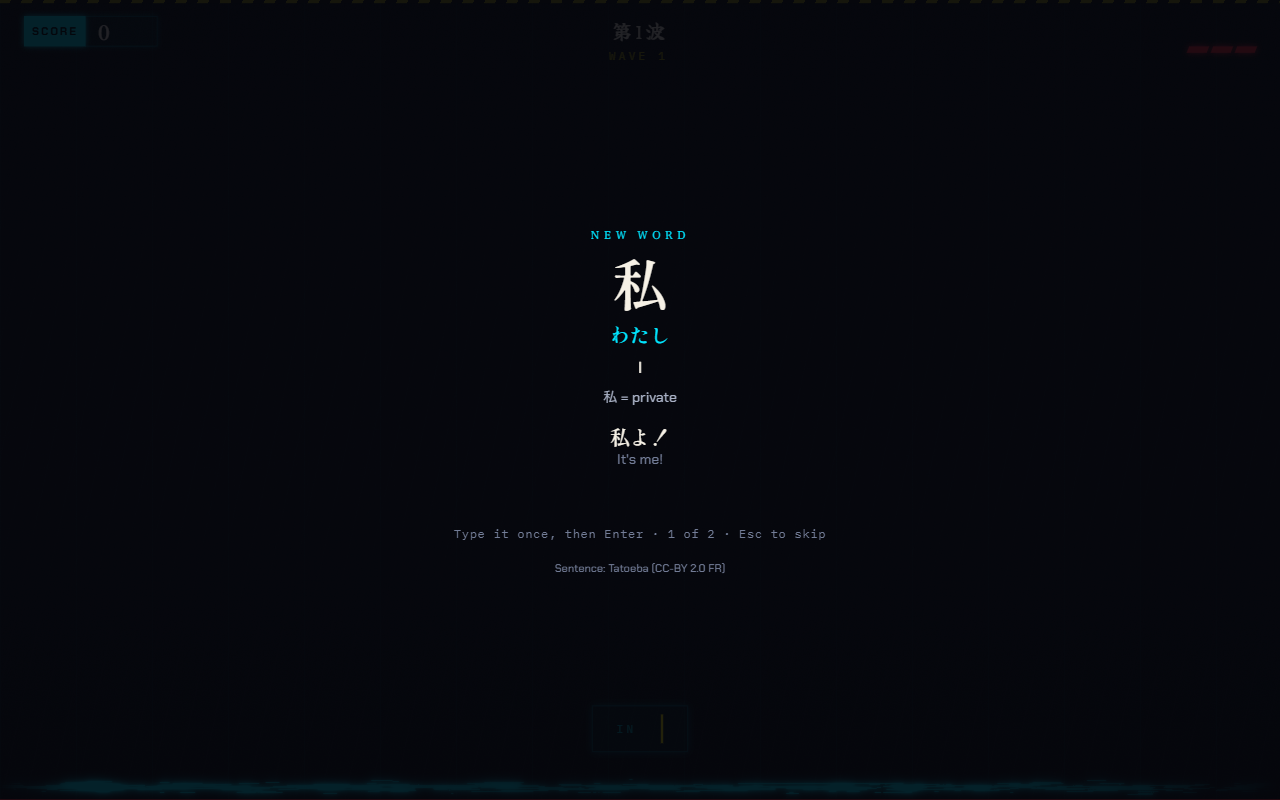
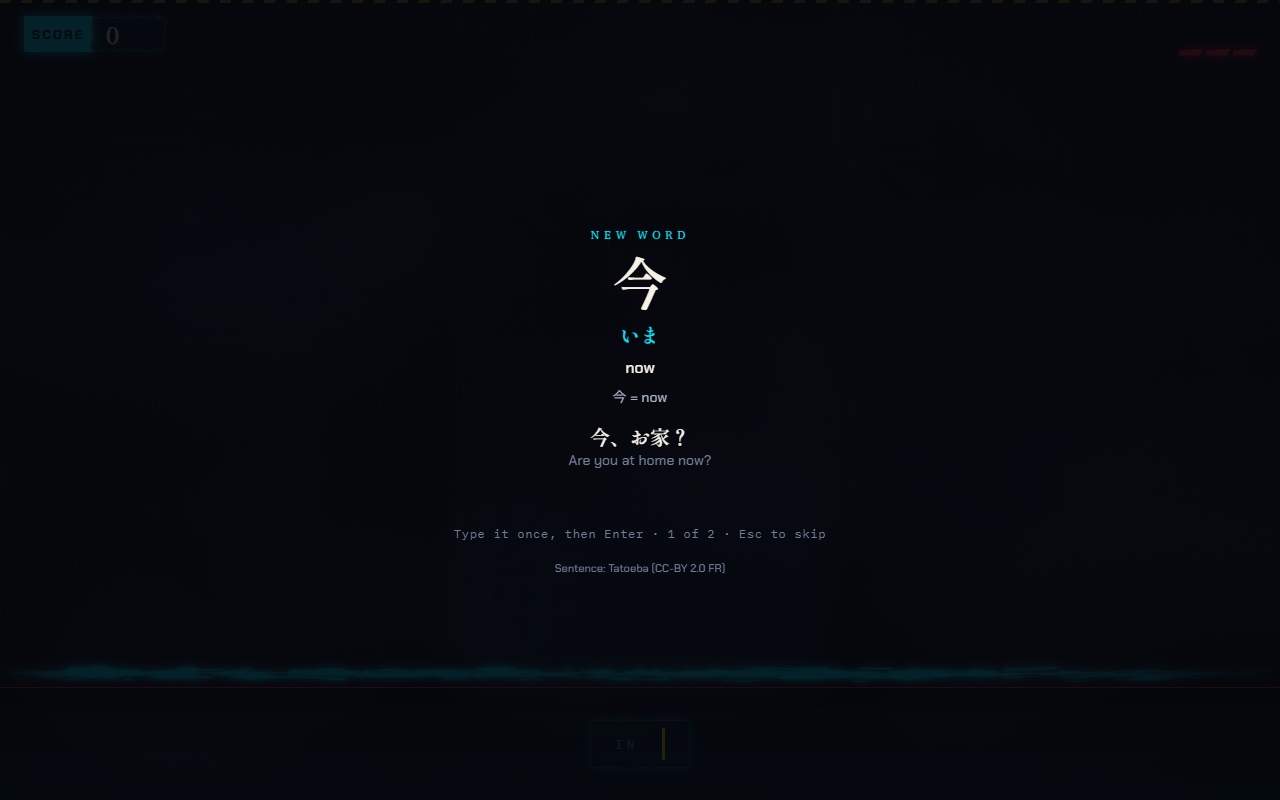
docs: second-pass QA matrix, refreshed screenshots, spec marked implemented

diff --git a/docs/qa/2026-10-07-second-pass-checklist.md b/docs/qa/2026-10-07-second-pass-checklist.md
@@ -1,0 +1,135 @@
+# Visual identity, second pass — QA checklist
+
+Task 15 of `docs/superpowers/plans/2026-10-07-visual-identity-second-pass.md`.
+Verifies spec `docs/superpowers/specs/2026-10-07-visual-identity-second-pass-design.md`
+§6 (effects contract), §7 (legibility), §9 (testing) against the running app.
+
+Browser: `kanjifall-e2e` (port 5183) only, via Playwright MCP — never the dev
+config, which writes to the real study database.
+
+**How this was walked (2026-10-07).** Every measurement ran against
+`kanjifall-e2e` with its isolated `data/e2e.db`, at 1280×800 unless a row says
+otherwise, with `?seed=42` (and `&mode=reading&pool=n5` where the game was
+started from the URL). Playwright's own Chromium is not installed, so the
+matrix was driven by temporary Playwright scripts on system Edge (headless),
+and the late-wave frame timing ran in the Claude browser pane (a real,
+GPU-composited Chromium). Effects levels were set through the Settings screen
+for the matrix walk (title → Settings → level → Back, so every level also
+re-entered the title through a transition); the legibility, brightness and
+README runs set `kotoba-settings-v1` in `localStorage` before load. Numbers
+come from the live objects, not from reading the code: computed styles and
+`getAnimations()` for the DOM, and for Pixi a page-side wrapper around
+`PixiStage`/`WordSprite` prototype methods (imported from `/src/render/…`,
+the same module instances the app uses) that recorded per-frame alpha, blur,
+filter lists, fx and particle counts. Nothing was added to the repository for
+this; the probes lived only in the page.
+
+**On the evidence referenced below.** As with the first pass, the `*.png`
+names are identifiers of screenshots examined at the time, kept in a scratch
+directory outside the repository; they are not paths you can open. The
+verdicts and the numbers recorded here are the durable record.
+
+## 1. §6 effects contract — one row per table cell
+
+| Element | Level | Expected | Observed | Result |
+|---|---|---|---|---|
+| Atmosphere washes, shaft, vignette, sumi | full | On, drifting | `--atmosphere-alpha` 1 and `.atmosphere-depth` opacity 1 on title, chooser and game; `atmosphere-sway` running on the system wash (46 s) and the cool wash (58 s), the deep wash static as specified. On Settings the scene is `calm` and the depth layer is at opacity 0. | PASS — `title-full.png`, `beat-full.png` |
+| Atmosphere washes, shaft, vignette, sumi | reduced | Half opacity, static | `--atmosphere-alpha` 0.5, depth opacity 0.5, `data-drift="0"`, `getAnimations()` empty on all three washes. | PASS — `title-reduced.png` |
+| Atmosphere washes, shaft, vignette, sumi | off | Absent | `--atmosphere-alpha` 0, depth opacity 0; only the ground gradient paints. | PASS — `title-off.png` |
+| Ghost glyphs (game) | full / reduced / off | Drift / static half / absent | 言 葉 降 at 4.5% ink, blur 2.4px. Full: `atmosphere-drift` (70 s) running in the game scene. Reduced: no animation, inside the 0.5 depth layer. Off: depth opacity 0. | PASS — `beat-full.png`, `miss-reduced.png`, `miss-off.png` |
+| Ghost words falling (title, chooser) | full / reduced / off | Fall / half opacity / absent | Six spans (雨 勉強 光 図書館 女 犬), never the deck. Full: colour alpha 0.16 on the title and 0.08 on the chooser, `title-fall` running (14–19 s). Reduced: 0.08 and 0.04, still falling. Off: not rendered (0 spans). | PASS — `title-*.png`, `setup-*.png` (motion at reduced: finding F5) |
+| Brush-edged chrome | full / reduced / off | Present at every level; glow only at full | At all three levels the `::before` of Stats, Settings, Back, every picker, the HUD value boxes, the buffer and the title sign carries the brush SVG mask at `100% 100%` over a token colour; primaries carry the torn `clip-path`. Glow: `.hud-glow` at full only (value box-shadow 6px, buffer 8px, tab and live-pip drop-shadows); none at reduced or off. | PASS (stroke weight on short boxes: finding F3) |
+| Spawn bleed + flicker | full / reduced / off | Blur+flicker / alpha only / appear | Full: `BlurFilter` 8px → 0 with alpha eased 0 → 1, filter removed at 258 ms; light × 0.3 for the second snap step (alpha 0.56 at 88 ms, 0.17 at 92 ms, 0.92 at 183 ms). Reduced: params `{ blurPx: 0, flicker: 0 }`, no filter, a plain alpha ramp. Off: `beginSpawn` never called; the first frame of the sprite is alpha 1 with no filter. | PASS |
+| Lock reticle + underline | full / reduced / off | Snap+flicker / snap / snap — present at every level | Brackets and underline visible from the first frame at every level. Full: alpha 0.9 (0–90 ms) → 0.2 (90–180 ms) → 1, glow filter on. Reduced: alpha 1 throughout, glow on at 0.5. Off: alpha 1, no glow filter (flat). | PASS — `locked-*.png` |
+| Slash / splatter / flare | full / reduced / off | All / slash, half, half / none | Full: slash (−16°, 117 × 5.4px at 45px words) scaleX 0 → 1 by 120 ms, holds, fades by 390 ms; 10 droplets (combo 1); flare alpha 1 → 0 while scaling up over 420 ms. Reduced: slash at alpha 1; 5 droplets; flare at half (0.43 at 63 ms against 0.85 at full). Off: no fx, 0 droplets; the word simply vanishes. | PASS — `kill-*.png` (slash weight: finding F2) |
+| Approach tint / swell | full / reduced / off | Both / tint only / none | Full: at y 0.85 the red-halo copy is at 0.50 over the base at 1 and the swell at 0.25; at y 0.93 hot 1, base 0.69, swell 0.65 and wider. Reduced: the same two-copy crossfade, no swell sprite. Off: no hot copy is ever built, no swell. | PASS — `approach-*.png` |
+| Miss splash / impact glow | full / reduced / off | Both / half, half / none | Full: 7 droplets, impact glow (danger tint) 1 → 0 over 420 ms (0.76 at 100 ms). Reduced: 4 droplets, impact 0.38 at 100 ms. Off: 0 droplets, no impact sprite. | PASS — `miss-*.png` |
+| Deadline flicker / shake (2px) | full / reduced / off | Both / none / none | Full: deadline alpha 0.45 (7–90 ms) → 1 (94–186 ms) → 0.45 (186–274 ms) → 1; stage jitter within ±2px (max 1.997) for 150 ms, then exactly (0, 0). Reduced and off: deadline at 1 and stage at (0, 0) on every frame. | PASS |
+| Miss reveal text, pip change | full / reduced / off | Present at every level | The reveal (`一 いち — one` on its vermillion underline) is present for 1600 ms at every level, fading from 15% of its life; pips read 2 live / 1 spent (spent at 16% danger) at every level. | PASS — `miss-off.png` |
+| Screen transition | full / reduced / off | Bleed+flicker / crossfade / 120ms crossfade — never a cut | Full: incoming `screen-bleed` 360 ms (opacity 0 → 1, blur 12 → 0) then `screen-settle` brightness 2 / 0.5 / 1 at 380 / 467 / 559 ms; outgoing `screen-drain` 360 ms, `inert` and `aria-hidden`; focus inside the incoming layer. Reduced: 360 ms crossfade, blur 0, no settle. Off: 120 ms crossfade, blur 0. Measured on Settings → title, title → chooser and chooser → game; the outgoing layer was present for every change, so none was a cut. The other directions go through the same `ScreenTransition` in `App.tsx`. | PASS |
+| Wave header | full / reduced / off | Centre beat + slot / centre fade + slot / slot only | Full: 第1波 `wave-bleed` 260 ms, `wave-drain` from 940 ms; the HUD label is `hud-wave-hidden` for the whole beat and bleeds in from ~1.33 s. Reduced: `data-beat="fade"`, `wave-fade-in` / `wave-fade-out`, no blur. Off: no `wave-start` element; the HUD label (class `hud-wave`, no bleed class) is at opacity 1 within ~115 ms of the ceremony ending. | PASS — `beat-full.png`, `beat-reduced.png` |
+| Wave light sweep | full / reduced / off | On / off / off | Full: `wave-sweep` 700 ms, displayed. Reduced: `display: none`. Off: not rendered. | PASS |
+| Title sign flicker / stagger | full / reduced / off | Both / bleed, no stagger / appear | Full: `sign-on` 520 ms, delay 540 ms (`--transition-ms` + two snaps), brightness 0.1 → 2 → 0.4 → 1 with 129 / 133 ms steps, starting after the transition's settle had ended; tagline, hint and the three controls at 1060 / 1140 / 1220 / 1300 / 1380 ms (80 ms stagger). Reduced: sign `screen-bleed` 260 ms (opacity only), every copy delay 0. Off: no animation on the sign or the copy. | PASS — `title-*.png` |
+| Existing: bloom, CRT, particle counts | each × crt on/off | As the juice pass | Toggled live at each level. Full: stage filters `[AdvancedBloom]` → `[AdvancedBloom, CRT]` with crt on → back; floor `GlowFilter`; grain 1. Reduced: `[]` → `[CRT]`; floor glow at 0.5; grain 0.5. Off: `[]` → `[CRT]`; floor flat (no filter); grain 0. Kill burst 10 / 5 / 0 and splash 7 / 4 / 0 droplets; shake 2px at full only. | PASS — `crt-*.png` |
+
+## 2. §7 legibility
+
+| Check | Expected | Observed | Result |
+|---|---|---|---|
+| 議 職 験 at 52px, atmosphere on, each level | Stroke detail unambiguous; words brightest on screen | QA-only list (会議 職業 試験 看護婦 年齢) in the e2e DB, each word captured mid-fall (y ≈ 0.25) over the atmosphere and cropped at 4× nearest-neighbour. At 1280×920 the words are 52px; at 1280×800 they are 45px (finding F1), so both were checked, at full, reduced and off. 議: the 言 bars and the 我 hooks separate. 職: the 耳 rungs and 戈 separate. 験: the four dots of 馬 separate; at full and 45px the chromatic split crowds them slightly but they stay countable. Ink (Y ≈ 0.88) is the brightest thing on screen; the brightest atmosphere pixel is Y 0.022. | PASS (eyeballed from the crops) — `legib-{full,reduced,off}-{800,920}-{議,職,験}.png` |
+| Depth-layer luminance over the ground | ≤ ~8% at the brightest point (sample the shaft's base) | Metric: WCAG relative luminance Y (the luminance the first pass's contrast checks use), per pixel, ΔY = Y(level) − Y(off), on an atmosphere-only frame (screen content hidden) at 1280×800, with the washes at both ends of their drift. Shaft base (640, 684): +0.74 points of luminance (Y 0.0024 → 0.0098). Brightest wash (cool, 1100, 450): +0.55. Brightest point anywhere: +1.9 at (538, 639), where the 降 ghost glyph crosses the shaft. Reduced: +0.69 at most. For reference, the same points in CIE lightness: shaft base ΔL* 6.6, maximum ΔL* 13.6. | PASS (≤ 8% luminance with a wide margin; the perceptual figure is noted in F6) — `atmos-full-start.png`, `atmos-full-end.png` |
+| Any flicker, each level | ≤ 3 steps, ≤ 300ms each, none at reduced/off | Every flicker in the build, measured at full: screen settle 2 / 0.5 / 1 (≈ 90 ms steps); title sign 0.1 / 2 / 0.4 / 1 (130 ms); spawn light 1 / 0.3 / 1 (90 ms); lock 0.9 / 0.2 / 1 (90 ms); deadline 0.45 / 1 / 0.45 / 1 (≈ 90 ms). Each is one event per trigger and never repeats. At reduced and off: no `screen-settle`, no `sign-on`, spawn and lock alpha never dip, the deadline never leaves 1. | PASS |
+
+## 3. prefers-reduced-motion
+
+| Check | Expected | Observed | Result |
+|---|---|---|---|
+| First run with the media query on | effects defaults to reduced: no blur, no flicker, no shake | Edge with `reducedMotion: 'reduce'` and empty storage: `matchMedia` true, `kotoba-settings-v1` absent (the default is not persisted), `getSettings().effects` is `reduced`, and Settings shows `reduced` selected. Title `data-flicker="0"`, the sign bleeds by opacity only; transition blur 0px and no settle; spawn params `{ blurPx: 0, flicker: 0 }` with no `BlurFilter`; `shakePx` 0; washes static. | PASS — `rm-title.png`. This closes the first pass's stated gap (it could not emulate the media query). |
+
+## 4. Late-wave frame time
+
+| Check | Expected | Observed | Result |
+|---|---|---|---|
+| Wave 10+, effects full, 1280×800 | No sustained drop below 55fps; ≤ 4 concurrent spawn blurs | Played through at the real constants (no tuning edit): an in-page autoplayer escaped ceremonies and typed readings, reaching wave 10 at 222 s with all lives. 30 s of `playing` frames over waves 10–11 in the browser pane (GPU-composited, emulated 1280×800, 144 Hz display): 4320 frames, every one-second window at 144fps, slowest frame 9.5 ms, p99 8.5 ms, 0 frames over 18.2 ms. Load in the window: 93 kills including five bursts of 3–4 simultaneous kills (up to 9 live fx and 136 droplets), 4 lazy hot-copy builds — none produced a slow frame. Natural play never had more than one bleed at a time (spawn interval ≥ 1.2 s against a 260 ms bleed), so the cap was exercised directly: 8 new words in one `sync` → 4 with a `BlurFilter`, 4 alpha-only, the `sync` itself 0.4 ms. | PASS |
+
+## 5. Fixes landed during this pass
+
+None. No cell in §1–§4 failed, so no `fix:` commit was needed. The judgement
+items and the deviations found along the way are recorded in §6 with
+recommendations; each needs a design decision rather than a correction.
+
+## 6. Findings not fixed
+
+| # | Finding | Recommendation |
+|---|---|---|
+| F1 | At the 1280×800 reference window words are **45px**, not the 52px (+30%) the decisions log and §3.3 name: `playScale` is keyed on the playfield, which is the window minus the machine band (688px at 800 tall). 52px needs a ~920px-tall window. | Decide what "52 at 800 tall" meant. If the +30% intent stands, key `playScale` on the game-screen height (or raise `WORD_HEIGHT_RATIO` to ≈ 0.0756), then recheck Task 3's buffer-fits-band arithmetic. Otherwise amend §3.3. |
+| F2 | The kill slash reads as a hairline cut, not a brush slash. The sprite is `max(4, 0.12 × wordPx)` = 5.4px tall at 45px, and `brushStrokeDataUri` keeps the floor's proportions, a painted bar 5/26 of the canvas height, so about 1px of ink plus raggedness shows (`judge-slash-crop.png`). The flare and the droplets carry the kill. | Tuning: about 0.25 × wordPx for the slash height, or a slash texture whose painted bar fills more of its canvas. |
+| F3 | `--brush-frame-wide` is a 200×40 (5:1) mask, but most of its users are 2–3:1 (Back 82×36, Stats 84×36, Settings 104×36, HUD values ~72×36). Stretched to `100% 100%`, the side strokes render 1.7–2.7× thinner than the top and bottom (the ratio of the two scale factors), and the top and bottom noise is squeezed sideways. The chooser's Import… button is also stretched to 102×55 by its row's default `align-items: stretch`. Visible at 4×, subtle at 1×. The narrow pickers the ledger asked about are fine: 136×36 on the 260×70 tall mask (3.8 vs 3.7). | A mask at ~2.5:1 (e.g. 100×40) for buttons and HUD values, and `align-self: center` on the Import button. |
+| F4 | The title sign centres at **31%** of the height, not the spec's 37%: the sign and its copy are centred as a group in the stage above the 30% band. | Keep 31% and amend §5.1. Moving the sign down 6% (29px at 480 tall) would shrink the hint-to-floor gap on short windows from 32px to ~3px (800×480), which is already the known tight spot. |
+| F5 | At reduced, the default under `prefers-reduced-motion`, the title and chooser ghost words keep falling (§6 asks only for half opacity). The game's ghost glyphs, by contrast, are static at reduced. | Consider "static, half" for the falling ghosts at reduced, so a reduced-motion first run has no continuous motion on its first two screens. This changes the §6 row. |
+| F6 | The brightest depth-layer point is the 降 ghost glyph where it crosses the light shaft (ΔY +1.9 points of luminance, ΔL* 13.6, centre-left of the playfield). It passes the luminance ceiling and is blurred, faint and 3× word size, but it is the one place where a letterform is the brightest thing in the depth layer. | Optional: move 降 off the shaft (e.g. `left: 20%`) or let the shaft fade out below it. |
+| F7 | Pre-existing, not from this pass: centre-lane words spawn under the HUD wave header and overlap 第N波 for about the first second of their fall (visible in `legib-*-920.png`). The +30% words make it a little larger than in the first pass. | Low; a spawn y below the header, or a header that ducks, if it ever matters. |
+| F8 | Pre-existing (juice pass, 2026-08-08), outside this pass's contract: two renderer paths still branch on `effects` directly: the `×N!` combo flash in `PixiStage.playKill` and the particle counts via `burstCount` in `Particles`. | Fold them into `visualParams` the next time either is touched. |
+
+## 7. Judgements the ledger asked for
+
+- **Ghost density on the title.** Six reads calm at 1280×800: the ghosts sit in
+  the outer lanes at 16% and never reach the sign or the controls. Keep six.
+- **The sign's vertical placement.** See F4: keep at ~31%.
+- **Slash thickness at small word sizes.** See F2: acceptable but weak.
+  Recommend tuning.
+- **Brush masks on off-aspect boxes.** Narrow pickers are fine; the short
+  buttons and HUD values are the ones that distort (F3).
+- **The kill's three stacked effects at a high kill rate.** A 4-word burst
+  frozen at +120 ms (`judge-burst.png`) reads as four distinct
+  flare + slash + splatter clusters, not as noise. Keep; the droplet count
+  stays the knob.
+- **Known cosmetic items, confirmed cosmetic.** 図書館 in the 94% lane clips at
+  the right edge on narrower windows (clearly at 960 wide, ~1px at 1280).
+  The title hint sits 10px above the floor box at 534×417 (32px at 800×480,
+  74px at 960×600). The HUD wave label starts its bleed 12–13ms after the
+  header finishes draining at full and reduced (measured; the ledger
+  estimated ~40ms). None of them hides or misstates state.
+
+## 8. `npm run check` / e2e
+
+```
+$ npm run check
+tsc -b && oxlint && vitest run --passWithNoTests
+ Test Files  75 passed (75)
+      Tests  524 passed (524)
+
+$ npx playwright test -c playwright.edge.tmp.config.ts   # repo config + use.channel 'msedge'; temporary, deleted
+Running 3 tests using 2 workers
+  ok 2 e2e\game.spec.ts:106:1 › reading mode: intro → dismiss → type reading → kill scores (17.2s)
+  ok 1 e2e\import.spec.ts:101:1 › import a list and play it: ceremony, kill, persistence (17.2s)
+  ok 3 e2e\game.spec.ts:158:1 › recall mode: gloss prompt still killed by typing the reading (2.3s)
+  3 passed (21.7s)
+```
+
+`npm run e2e` as written needs Playwright's Chromium, which is not installed
+on this machine (`npx playwright install chromium` is a download). The same
+suite was run against system Edge through a temporary config that spreads
+`playwright.config.ts` and sets `use.channel = 'msedge'`. No `concurrently`,
+`tsx` or `vite` process pointing into the worktree was left running before
+or after the run.

diff --git a/docs/superpowers/specs/2026-10-07-visual-identity-second-pass-design.md b/docs/superpowers/specs/2026-10-07-visual-identity-second-pass-design.md
@@ -1,7 +1,7 @@
 # Visual Identity, Second Pass — Design Spec
 
 **Date:** 2026-10-07
-**Status:** Approved pending final user review
+**Status:** Implemented — see docs/superpowers/plans/2026-10-07-visual-identity-second-pass.md
 **Scope:** Atmosphere and ink material on the playfield, a motion language for every moment of play, screen transitions, a wave-start beat, and a title showpiece. Presentation only. No engine, data, or server changes.
 **Builds on:** `2026-08-15-visual-identity-design.md`. This spec inherits its token layer (§3), its effects/settings contract (§7), and its legibility rules (§9) without restating them. Where it amends that spec it says so explicitly. It also inherits the juice pass's load-bearing boundary: the Pixi layer, the React HUD, and audio are passive consumers of engine events.
 **Comps:** the approved mockups live in `.superpowers/brainstorm/1820-1791402381/content/` (gitignored, local to the machine the brainstorm ran on): `backdrop.html`, `chrome.html`, `scale.html`, `motion-v2.html`, `transitions.html`, `title-v2.html`. The spec is the source of truth; the comps show intent.
@@ -119,7 +119,7 @@ The band is the machine: the buffer and, on the title and chooser, the controls 
 
 **Ink is the body, neon is the light.** Forms move like ink: they bleed in from blur, splatter, drip, drain. Light moves like neon: it flickers on, flares, pulses once. Every moment below is built from those two vocabularies and nothing else. A new moment added later must be describable in them.
 
-Two constraints hold everywhere. Nothing decorative may flash more than three times per event or last longer than 300ms per flicker, and every flicker is gone at `effects: 'reduced'`, which `prefers-reduced-motion` already selects by default. Anything that conveys state keeps its first-spec behaviour at every level.
+Two constraints hold everywhere. Nothing decorative may flash more than three times per event or last longer than 300ms per step, and every flicker is gone at `effects: 'reduced'`, which `prefers-reduced-motion` already selects by default. Anything that conveys state keeps its first-spec behaviour at every level.
 
 ### 4.2 Motion tokens
 

diff --git a/README.md b/README.md
@@ -33,6 +33,10 @@ an example sentence, and you type it once before it ever falls:
   it with the same ceremony + review treatment.
 - **Local-first analytics** — everything lives in one SQLite file on your
   machine; nothing leaves it.
+- **Brushed ink lit as neon** — a sumi atmosphere behind the playfield,
+  brush-edged chrome, and a motion grammar where forms move like ink and
+  light moves like neon. Everything decorative scales with the effects
+  setting; everything that carries game state renders at every level.
 
 ## Run it locally
 
